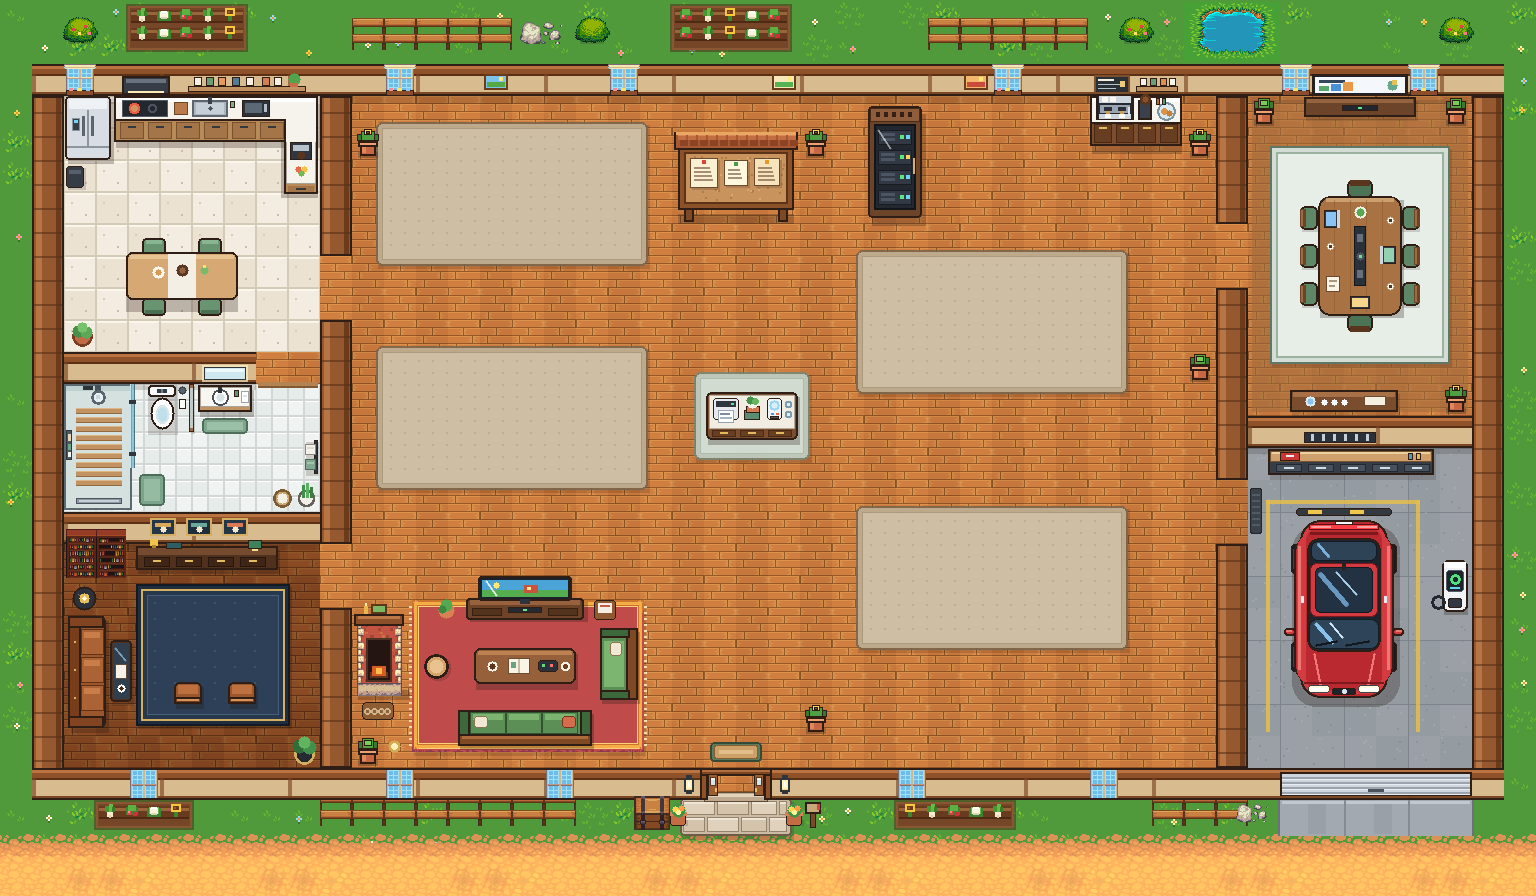
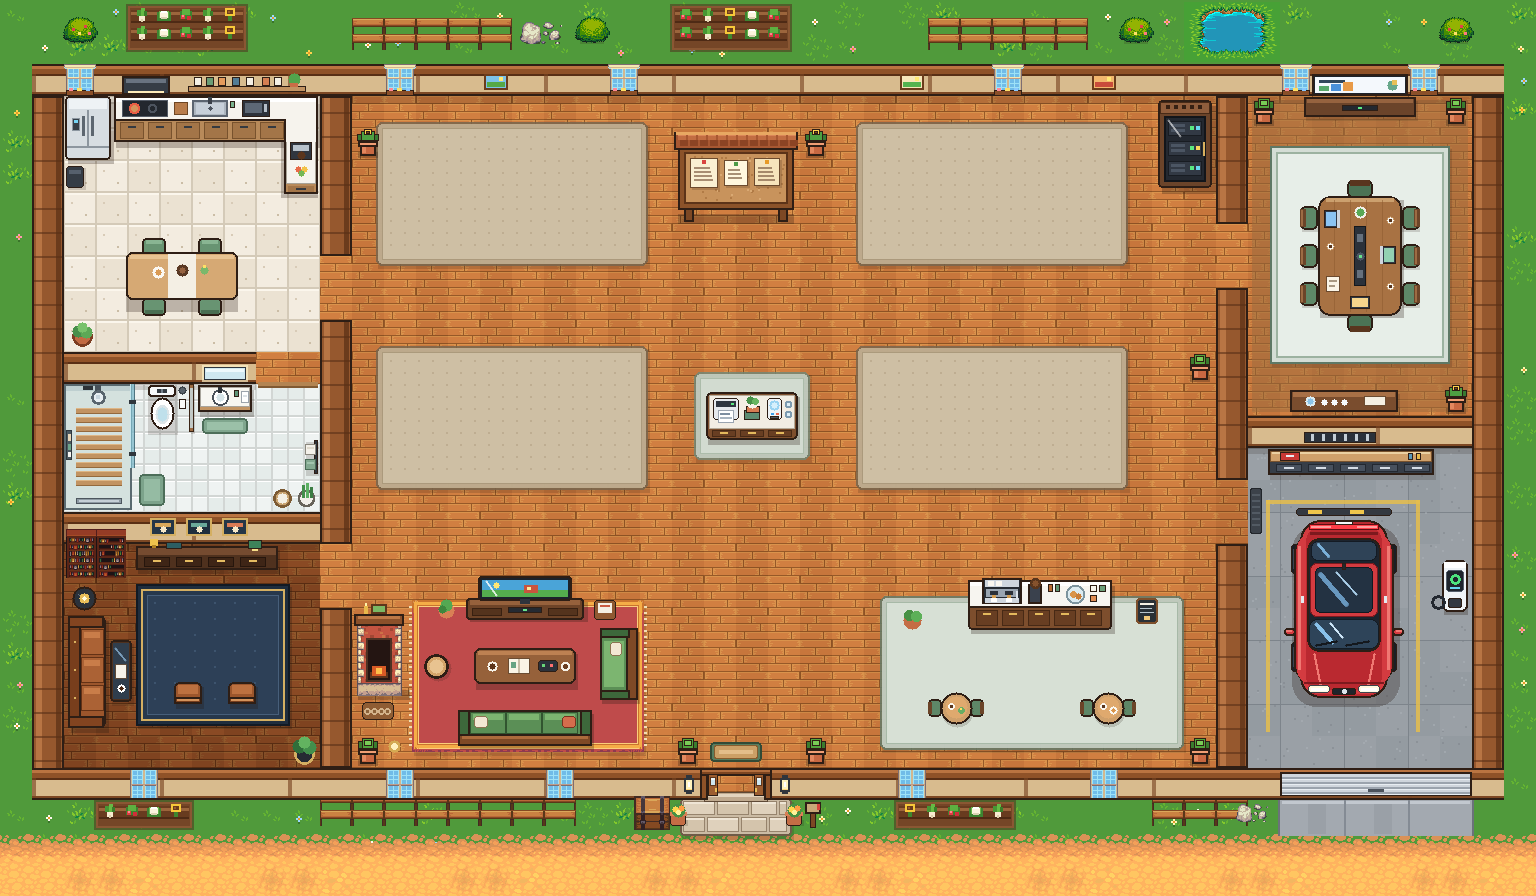
design: re-layout main office hall into symmetrical 2x2 6-desk quad, central spine, and SE Espresso Cafe Corner

diff --git a/public/office-harvest.js b/public/office-harvest.js
@@ -12,7 +12,7 @@
   if (!O) return;
 
   var ASSET_BASE = '/art/stardew-v1/';
-  var ASSET_VER = '?v=12';
+  var ASSET_VER = '?v=13';
   var ASSETS = {
     bg: { uri: ASSET_BASE + 'farmhouse-bg@2x.png', w: 768, h: 448 },
     meadow: { uri: ASSET_BASE + 'meadow-tile@2x.png', w: 96, h: 96 },
@@ -232,7 +232,7 @@
       '101101111001001', '111100111001111', '111100111101111', '111001001001001',
       '111101111101111', '111101111001111',
     ];
-    var x = 29 * T + 5;
+    var x = 22 * T + 2;
     var y = 2 * T + 3;
     g.fillStyle = '#2c1d18';
     g.fillRect(x, y, 27, 11);
@@ -292,12 +292,12 @@
       // Warm orange firelight cast onto Persian rug
       drawWarmGlow(g, fx + 10, fy + 6, 28, 'rgba(255, 162, 68, ' + (0.24 * flicker).toFixed(2) + ')');
 
-      // 3. Softly rising steam wisps (Modern Kitchen induction kettle, Kitchen pantry brewer, & Dedicated Coffee Machine Bar!)
+      // 3. Softly rising steam wisps (Modern Kitchen induction kettle, Kitchen pantry brewer, & SE Studio Espresso Bar!)
       var steamSpots = [
         [4 * T + 5, 3 * T + 5],
         [9 * T + 8, 4 * T + 10],
-        [34 * T + 13, 3 * T + 6],
-        [35 * T + 3, 3 * T + 6],
+        [31 * T + 4, 18 * T + 6],
+        [31 * T + 12, 18 * T + 6],
       ];
       for (var s = 0; s < steamSpots.length; s++) {
         var sp = steamSpots[s];
@@ -360,7 +360,7 @@
     var critters = [
       { id: 'hen-north', kind: 'chicken', asset: 'chickenWhite', x: 13 * T, y: 0.9 * T, minX: 9.2 * T, maxX: 19.5 * T, minY: 0.45 * T, maxY: 1.25 * T, dir: 1, speed: 12, mode: 'walk', timer: 2.2, emote: '', emoteT: 0, jumpT: 0, seed: 1.1 },
       { id: 'hen-south', kind: 'chicken', asset: 'chickenBrown', x: 32 * T, y: 25.15 * T, minX: 27 * T, maxX: 35.4 * T, minY: 24.9 * T, maxY: 25.45 * T, dir: -1, speed: 11, mode: 'peck', timer: 1.8, emote: '', emoteT: 0, jumpT: 0, seed: 2.7 },
-      { id: 'cat-indoor', kind: 'cat', asset: 'catGinger', x: 21.5 * T, y: 22.4 * T, minX: 18.2 * T, maxX: 26.2 * T, minY: 20.6 * T, maxY: 23.1 * T, dir: 1, speed: 14, mode: 'nap', timer: 5.5, emote: '', emoteT: 0, jumpT: 0, seed: 3.4 },
+      { id: 'cat-indoor', kind: 'cat', asset: 'catGinger', x: 23.4 * T, y: 21.8 * T, minX: 21.4 * T, maxX: 26.0 * T, minY: 20.6 * T, maxY: 22.8 * T, dir: 1, speed: 14, mode: 'nap', timer: 5.5, emote: '', emoteT: 0, jumpT: 0, seed: 3.4 },
       { id: 'cat-porch', kind: 'cat', asset: 'catTuxedo', x: 15.2 * T, y: 25.1 * T, minX: 9.5 * T, maxX: 19.2 * T, minY: 24.85 * T, maxY: 25.4 * T, dir: 1, speed: 13, mode: 'walk', timer: 3.2, emote: '', emoteT: 0, jumpT: 0, seed: 4.8 },
       { id: 'rabbit-ne', kind: 'rabbit', asset: 'rabbitWhite', x: 31 * T, y: 0.95 * T, minX: 27 * T, maxX: 35.8 * T, minY: 0.45 * T, maxY: 1.25 * T, dir: -1, speed: 18, mode: 'walk', timer: 1.9, emote: '', emoteT: 0, jumpT: 0, seed: 5.3 },
       { id: 'rabbit-sw', kind: 'rabbit', asset: 'rabbitCinnamon', x: 6.2 * T, y: 25.1 * T, minX: 1.8 * T, maxX: 9.0 * T, minY: 24.85 * T, maxY: 25.45 * T, dir: 1, speed: 17, mode: 'idle', timer: 1.6, emote: '', emoteT: 0, jumpT: 0, seed: 6.2 },

diff --git a/app/reference-office.tsx b/app/reference-office.tsx
@@ -33,7 +33,7 @@ function load() {
     const art = new Image(); art.src = '/art/office-reference.png'; await art.decode();
     (window as unknown as { MDOffice: Vendor }).MDOffice.campusArt = art;
     // Optional Phase 03 Retina workstation & Stardew Valley scene adapters.
-    for (const extra of ['/retina-workstation.js', '/office-harvest.js?v=12']) {
+    for (const extra of ['/retina-workstation.js', '/office-harvest.js?v=13']) {
       await new Promise<void>(resolve => {
         const script = document.createElement('script');
         script.src = extra;
